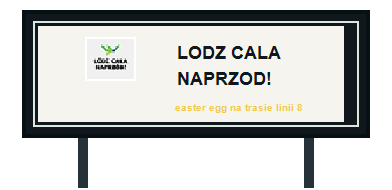
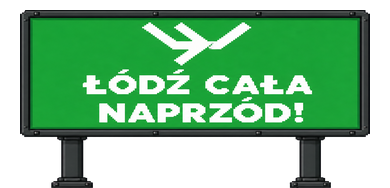
Polish end screen and LCN billboards

diff --git a/src/scenes/GameScene.js b/src/scenes/GameScene.js
@@ -3378,15 +3378,18 @@ export class GameScene extends Phaser.Scene {
 
     const layer = this.add.container(0, 0).setDepth(2200);
     layer.add(this.add.rectangle(0, 0, WIDTH, HEIGHT, 0x050607, 0.68).setOrigin(0));
-    layer.add(this.add.rectangle(WIDTH / 2, HEIGHT / 2, 930, 500, 0x0d1318, 0.98)
-      .setStrokeStyle(5, 0xf4d35e, 1));
-    layer.add(this.add.rectangle(WIDTH / 2 - 150, HEIGHT / 2 + 12, 600, 400, 0x101820, 0.94)
-      .setStrokeStyle(2, 0x56636c, 1));
-    layer.add(this.add.rectangle(WIDTH / 2 + 270, HEIGHT / 2 + 12, 250, 400, 0x101820, 0.94)
-      .setStrokeStyle(2, 0x56636c, 1));
-    layer.add(this.add.rectangle(WIDTH / 2, HEIGHT / 2 - 206, 860, 14, 0x26323a, 0.9));
+    layer.add(this.add.rectangle(WIDTH / 2, HEIGHT / 2, 1060, 630, 0x0d1318, 0.98)
+      .setStrokeStyle(5, 0xf4d35e, 1)
+      .setName("end-panel"));
+    layer.add(this.add.rectangle(WIDTH / 2 - 165, HEIGHT / 2 + 48, 680, 490, 0x101820, 0.94)
+      .setStrokeStyle(2, 0x56636c, 1)
+      .setName("end-report-panel"));
+    layer.add(this.add.rectangle(WIDTH / 2 + 350, HEIGHT / 2 + 48, 310, 490, 0x101820, 0.94)
+      .setStrokeStyle(2, 0x56636c, 1)
+      .setName("end-history-panel"));
+    layer.add(this.add.rectangle(WIDTH / 2, HEIGHT / 2 - 258, 980, 12, 0x26323a, 0.9));
 
-    layer.add(this.add.text(WIDTH / 2, HEIGHT / 2 - 218, title, {
+    layer.add(this.add.text(WIDTH / 2, HEIGHT / 2 - 280, title, {
       fontSize: "28px",
       fontStyle: "700",
       color: "#f4efe4",
@@ -3396,7 +3399,7 @@ export class GameScene extends Phaser.Scene {
     }).setOrigin(0.5));
 
     if (title !== "Kurs przerwany") {
-      layer.add(this.add.text(WIDTH / 2, HEIGHT / 2 - 190, "Dyspozytor: dobra robota, skład na pętli.", {
+      layer.add(this.add.text(WIDTH / 2, HEIGHT / 2 - 247, "Dyspozytor: dobra robota, skład na pętli.", {
         fontSize: "13px",
         fontStyle: "700",
         color: "#50d2c2",
@@ -3405,7 +3408,7 @@ export class GameScene extends Phaser.Scene {
       for (let i = 0; i < 28; i += 1) {
         const confetti = this.add.rectangle(
           WIDTH / 2 - 390 + i * 29,
-          HEIGHT / 2 - 232 + Phaser.Math.Between(-8, 14),
+          HEIGHT / 2 - 300 + Phaser.Math.Between(-5, 12),
           5,
           9,
           i % 3 === 0 ? 0xf4d35e : i % 3 === 1 ? 0x50d2c2 : 0xffb22e,
@@ -3415,68 +3418,71 @@ export class GameScene extends Phaser.Scene {
       }
     }
 
-    layer.add(this.add.text(WIDTH / 2, HEIGHT / 2 - 166, `SCORE: ${finalScore}`, {
+    layer.add(this.add.text(WIDTH / 2, HEIGHT / 2 - 216, `WYNIK: ${finalScore}`, {
       fontSize: "28px",
       fontStyle: "700",
       color: isRecord ? "#50d2c2" : "#ffb22e",
       align: "center"
     }).setOrigin(0.5));
     if (isRecord) {
-      layer.add(this.add.text(WIDTH / 2 + 186, HEIGHT / 2 - 158, "NEW RECORD", {
+      layer.add(this.add.text(WIDTH / 2 + 205, HEIGHT / 2 - 208, "NOWY REKORD", {
         fontSize: "13px",
         fontStyle: "700",
         color: "#50d2c2"
       }).setOrigin(0.5));
     }
 
-    this.addResultBars(layer, WIDTH / 2 - 420, HEIGHT / 2 - 132);
+    this.addResultBars(layer, WIDTH / 2 - 480, HEIGHT / 2 - 170);
 
     const lines = detail.split("\n");
-    const summary = lines.slice(0, 5).join("\n");
-    const missions = lines.slice(8, 13).join("\n");
-    layer.add(this.add.text(WIDTH / 2 - 420, HEIGHT / 2 - 52, "RAPORT KURSU", {
+    const summary = lines.slice(0, 7).join("\n");
+    const missions = lines.slice(8).join("\n");
+    layer.add(this.add.text(WIDTH / 2 - 480, HEIGHT / 2 - 95, "RAPORT KURSU", {
       fontSize: "16px",
       fontStyle: "700",
       color: "#f4d35e"
     }));
-    layer.add(this.add.text(WIDTH / 2 - 420, HEIGHT / 2 - 25, summary, {
-      fontSize: "12px",
+    layer.add(this.add.text(WIDTH / 2 - 480, HEIGHT / 2 - 67, summary, {
+      fontSize: "11px",
       color: "#d9d3c4",
       align: "left",
-      lineSpacing: 2,
-      wordWrap: { width: 550, useAdvancedWrap: true }
-    }));
-    layer.add(this.add.rectangle(WIDTH / 2 - 150, HEIGHT / 2 + 92, 550, 2, 0x34434b, 1));
-    layer.add(this.add.text(WIDTH / 2 - 420, HEIGHT / 2 + 112, "CELE", {
+      lineSpacing: 1,
+      wordWrap: { width: 620, useAdvancedWrap: true }
+    }).setName("end-summary"));
+    layer.add(this.add.rectangle(WIDTH / 2 - 165, HEIGHT / 2 + 37, 620, 2, 0x34434b, 1));
+    layer.add(this.add.text(WIDTH / 2 - 480, HEIGHT / 2 + 55, "CELE", {
       fontSize: "16px",
       fontStyle: "700",
       color: "#f4d35e"
     }));
-    layer.add(this.add.text(WIDTH / 2 - 420, HEIGHT / 2 + 140, missions, {
-      fontSize: "12px",
+    layer.add(this.add.text(WIDTH / 2 - 480, HEIGHT / 2 + 82, missions, {
+      fontSize: "11px",
       color: "#f4efe4",
       align: "left",
-      lineSpacing: 2,
-      wordWrap: { width: 550, useAdvancedWrap: true }
-    }));
-    this.addHistoryPanel(layer, WIDTH / 2 + 160, HEIGHT / 2 - 145, history);
-    layer.add(this.add.text(WIDTH / 2 - 420, HEIGHT / 2 + 205, `Rekord: ${Math.max(finalScore, highScore)}`, {
+      lineSpacing: 1,
+      wordWrap: { width: 620, useAdvancedWrap: true }
+    }).setName("end-missions"));
+    this.addHistoryPanel(layer, WIDTH / 2 + 215, HEIGHT / 2 - 180, history, 270);
+    layer.add(this.add.text(WIDTH / 2 - 480, HEIGHT / 2 + 258, `Rekord: ${Math.max(finalScore, highScore)}`, {
       fontSize: "14px",
       color: "#f4efe4"
     }));
-    layer.add(this.add.text(WIDTH / 2 + 410, HEIGHT / 2 + 205, "R: jeszcze raz    Esc: menu", {
+    layer.add(this.add.text(WIDTH / 2 + 480, HEIGHT / 2 + 258, "R: jeszcze raz    Esc: menu", {
       fontSize: "15px",
       fontStyle: "700",
       color: "#f4d35e"
     }).setOrigin(1, 0));
     if (recorded.newlyUnlocked.length) {
-      layer.add(this.add.text(WIDTH / 2 - 420, HEIGHT / 2 + 181, `Nowe osiągnięcia: ${recorded.newlyUnlocked.map(({ label }) => label).join(", ")}`, {
-        fontSize: "10px", fontStyle: "700", color: "#50d2c2", wordWrap: { width: 560, useAdvancedWrap: true }
-      }));
+      const unlockedLabels = recorded.newlyUnlocked.map(({ label }) => label);
+      const visibleLabels = unlockedLabels.slice(0, 3).join(", ");
+      const remainingLabel = unlockedLabels.length > 3 ? ` i jeszcze ${unlockedLabels.length - 3}` : "";
+      layer.add(this.add.text(WIDTH / 2 - 480, HEIGHT / 2 + 192, `Nowe osiągnięcia: ${visibleLabels}${remainingLabel}`, {
+        fontSize: "10px", fontStyle: "700", color: "#50d2c2", wordWrap: { width: 620, useAdvancedWrap: true }
+      }).setName("end-achievements"));
     }
     if (this.challenge) {
       const dailyBest = this.profile.stats.dailyBest[this.challenge.date] || finalScore;
-      layer.add(this.add.text(WIDTH / 2, HEIGHT / 2 + 238, `Rekord dnia: ${dailyBest}`, {
+      layer.add(this.add.text(WIDTH / 2 + 350, HEIGHT / 2 + 200, `Rekord dnia: ${dailyBest}`, {
         fontSize: "11px", fontStyle: "700", color: "#8fb7e8"
       }).setOrigin(0.5));
     }
@@ -3498,7 +3504,7 @@ export class GameScene extends Phaser.Scene {
     });
   }
 
-  addHistoryPanel(layer, x, y, history) {
+  addHistoryPanel(layer, x, y, history, width = 270) {
     layer.add(this.add.text(x, y, "OSTATNIE KURSY", {
       fontSize: "16px",
       fontStyle: "700",
@@ -3509,20 +3515,21 @@ export class GameScene extends Phaser.Scene {
       return;
     }
     history.slice(0, 4).forEach((run, index) => {
-      const yy = y + 34 + index * 52;
+      const yy = y + 34 + index * 66;
       const color = index === 0 ? 0xf4d35e : 0x56636c;
-      layer.add(this.add.rectangle(x + 110, yy + 18, 220, 44, 0x0d1318, 0.96)
+      layer.add(this.add.rectangle(x + width / 2, yy + 24, width, 56, 0x0d1318, 0.96)
         .setStrokeStyle(1, color, index === 0 ? 0.95 : 0.65));
-      layer.add(this.add.text(x + 8, yy + 3, `${index + 1}. ${run.score}  ${run.grade}`, {
+      layer.add(this.add.text(x + 10, yy + 3, `${index + 1}. ${run.score}  ${run.grade}`, {
         fontSize: "13px",
         fontStyle: "700",
         color: index === 0 ? "#ffb22e" : "#f4efe4"
       }));
-      layer.add(this.add.text(x + 8, yy + 22, `${run.mode} | ${run.vehicle.replace("Konstal ", "").replace("Pesa ", "")}`, {
+      layer.add(this.add.text(x + 10, yy + 24, `${run.mode} | ${run.vehicle.replace("Konstal ", "").replace("Pesa ", "")}`, {
         fontSize: "9px",
-        color: "#d9d3c4"
+        color: "#d9d3c4",
+        wordWrap: { width: width - 20, useAdvancedWrap: true }
       }));
-      layer.add(this.add.text(x + 8, yy + 34, `Płyn. ${run.smoothness}%  Zad. ${run.satisfaction}%`, {
+      layer.add(this.add.text(x + 10, yy + 40, `Płyn. ${run.smoothness}%  Zad. ${run.satisfaction}%`, {
         fontSize: "9px",
         color: "#8ea0a8"
       }));

diff --git a/tests/browser/release.spec.js b/tests/browser/release.spec.js
@@ -87,6 +87,35 @@ test("landing -> menu -> wyzwanie -> GameScene -> ekran koncowy", async ({ page 
   await page.waitForFunction(() => window.__KURS8_GAME__?.scene?.getScene("GameScene")?.finished === true);
   const summary = await page.evaluate(() => window.__KURS8_GAME__.scene.getScene("GameScene").runSummary);
   expect(summary).toMatchObject({ version: 1, completed: true });
+  const endLayout = await page.evaluate(() => {
+    const scene = window.__KURS8_GAME__.scene.getScene("GameScene");
+    const layer = scene.children.list.find((object) => object.type === "Container" && object.depth === 2200);
+    const plainBounds = (object) => {
+      const bounds = object.getBounds();
+      return { left: bounds.left, right: bounds.right, top: bounds.top, bottom: bounds.bottom };
+    };
+    const outerObject = layer.list.find((object) => object.name === "end-panel");
+    const outer = plainBounds(outerObject);
+    const report = plainBounds(layer.list.find((object) => object.name === "end-report-panel"));
+    const history = plainBounds(layer.list.find((object) => object.name === "end-history-panel"));
+    const summaryText = plainBounds(layer.list.find((object) => object.name === "end-summary"));
+    const missionsText = plainBounds(layer.list.find((object) => object.name === "end-missions"));
+    const achievementsObject = layer.list.find((object) => object.name === "end-achievements");
+    const achievements = achievementsObject ? plainBounds(achievementsObject) : null;
+    const overflowingText = layer.list
+      .filter((object) => object.type === "Text")
+      .filter((object) => {
+        const bounds = object.getBounds();
+        return bounds.left < outer.left + 8 || bounds.right > outer.right - 8 || bounds.top < outer.top + 8 || bounds.bottom > outer.bottom - 8;
+      })
+      .map((object) => object.text);
+    return { outer, report, history, summaryText, missionsText, achievements, overflowingText };
+  });
+  expect(endLayout.overflowingText).toEqual([]);
+  expect(endLayout.summaryText.right).toBeLessThanOrEqual(endLayout.report.right - 20);
+  expect(endLayout.missionsText.right).toBeLessThanOrEqual(endLayout.report.right - 20);
+  expect(endLayout.missionsText.bottom).toBeLessThanOrEqual(endLayout.report.bottom - 70);
+  if (endLayout.achievements) expect(endLayout.achievements.bottom).toBeLessThanOrEqual(endLayout.report.bottom - 20);
   expect(errors).toEqual([]);
 });
 